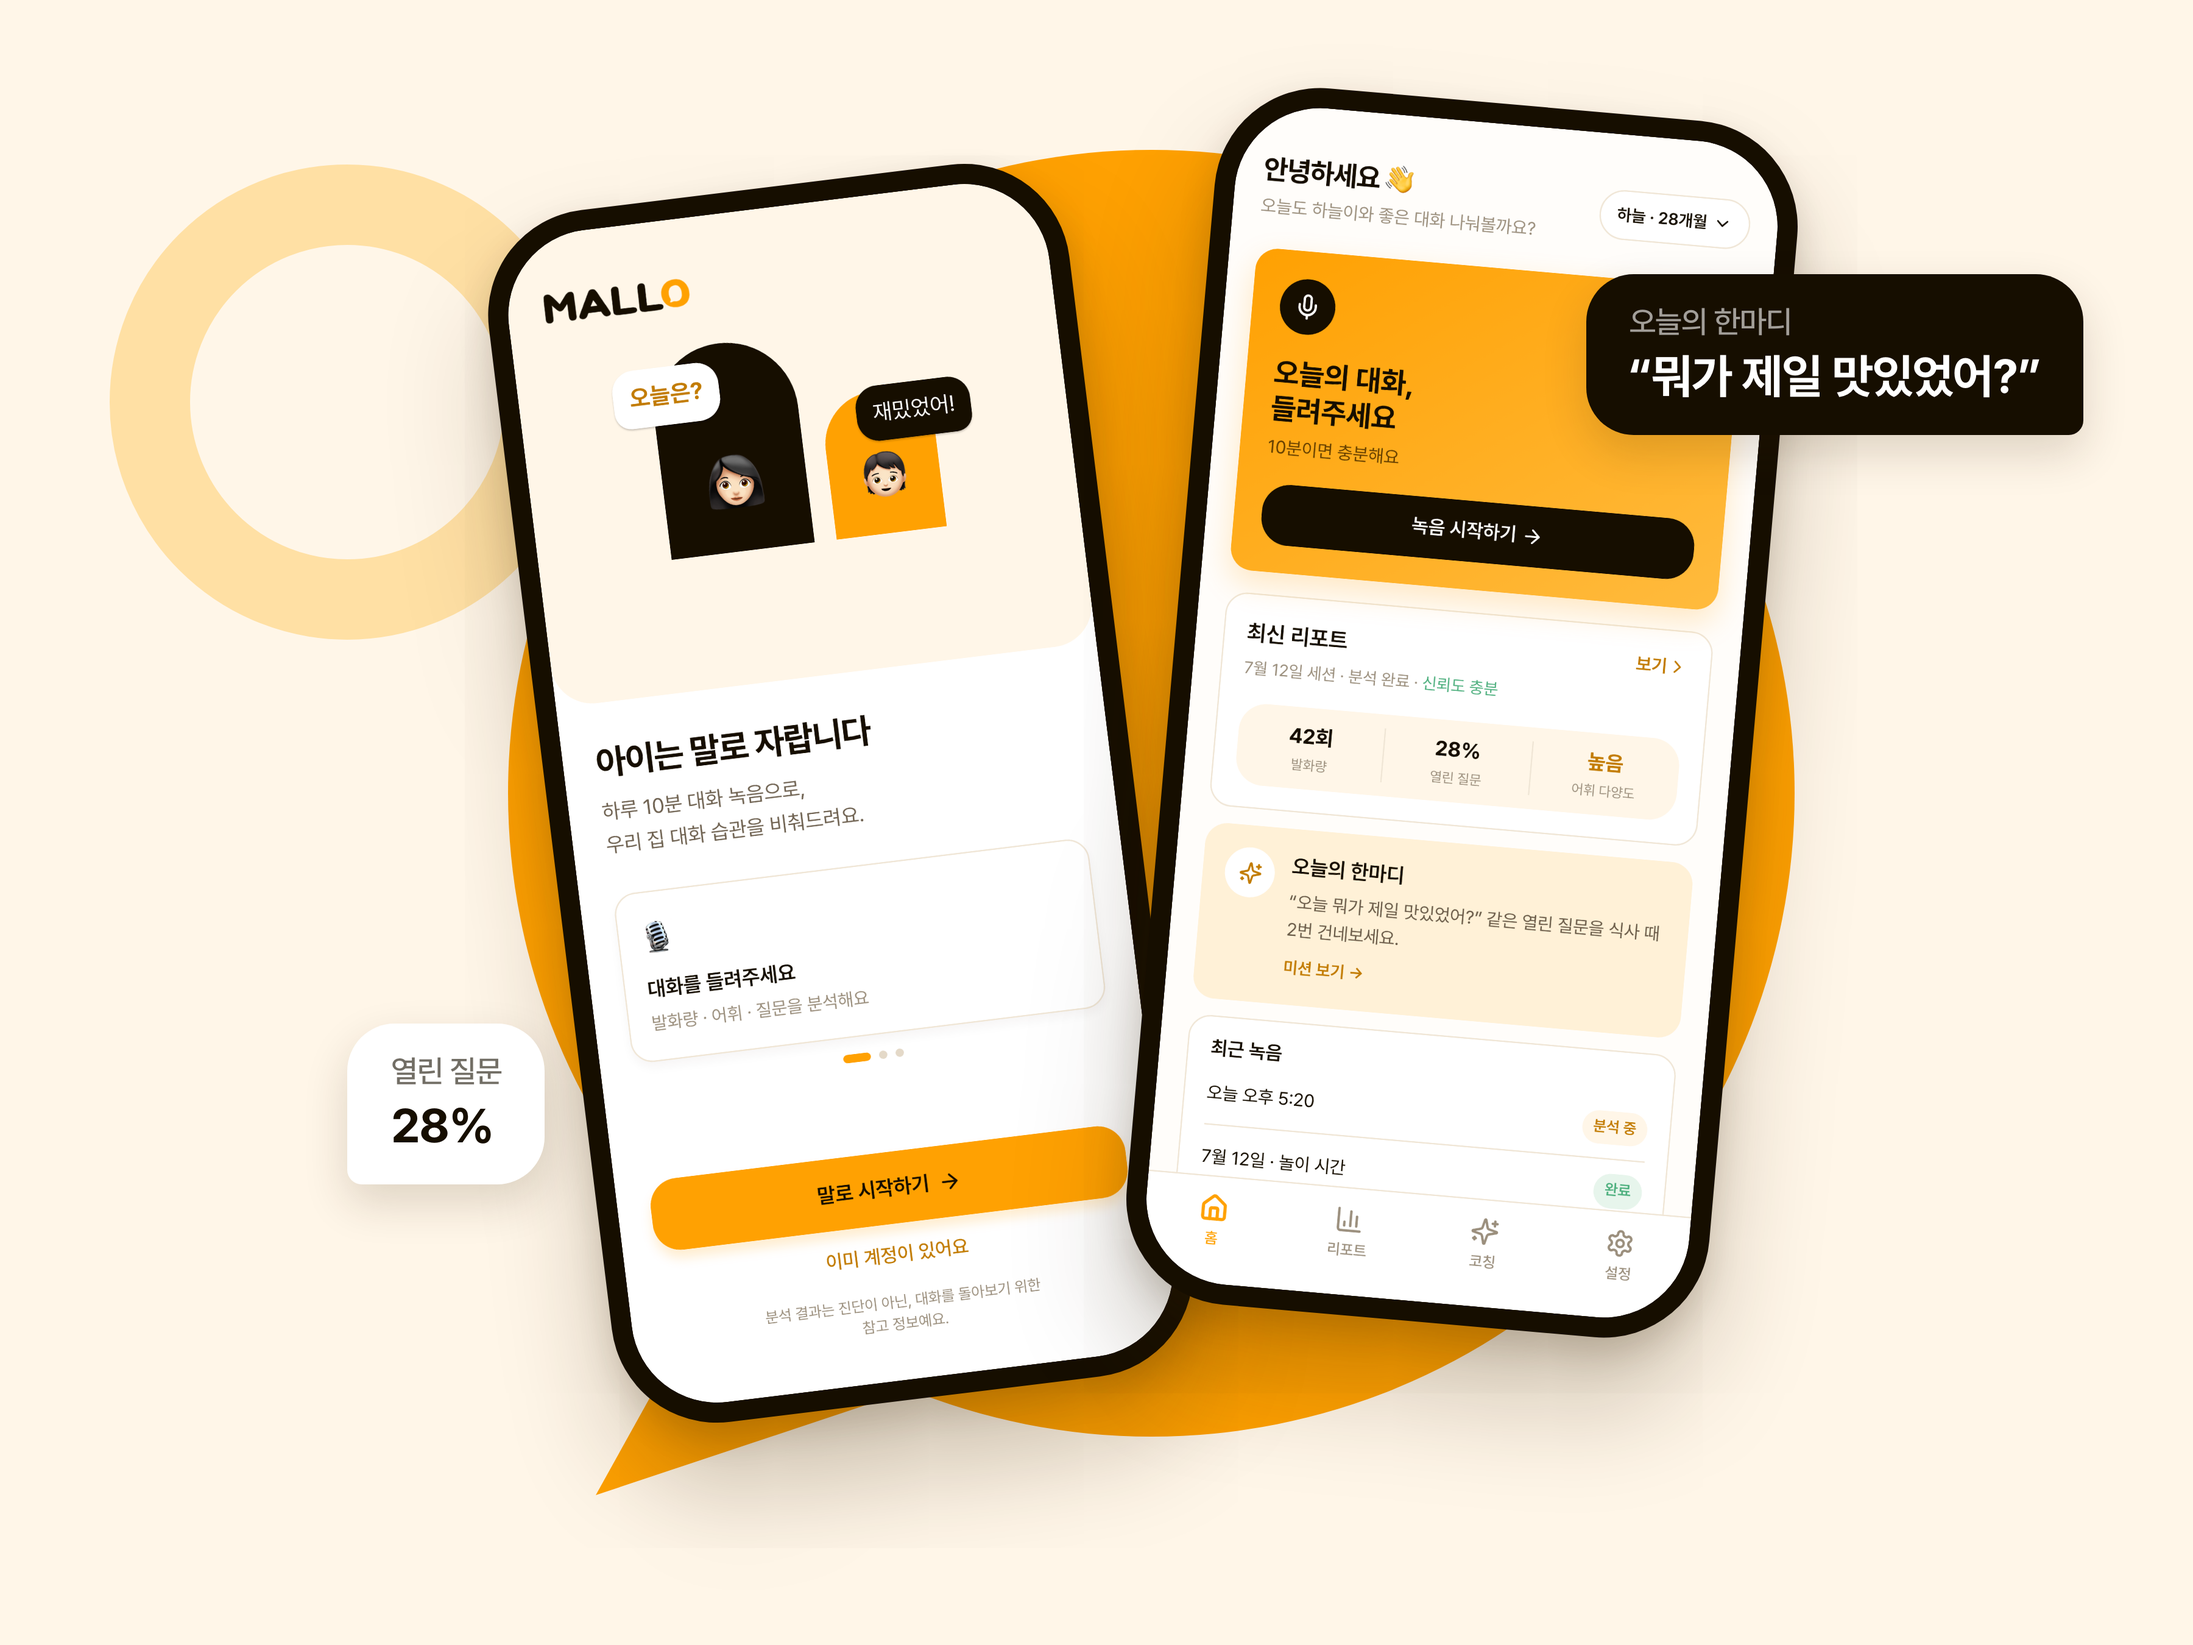
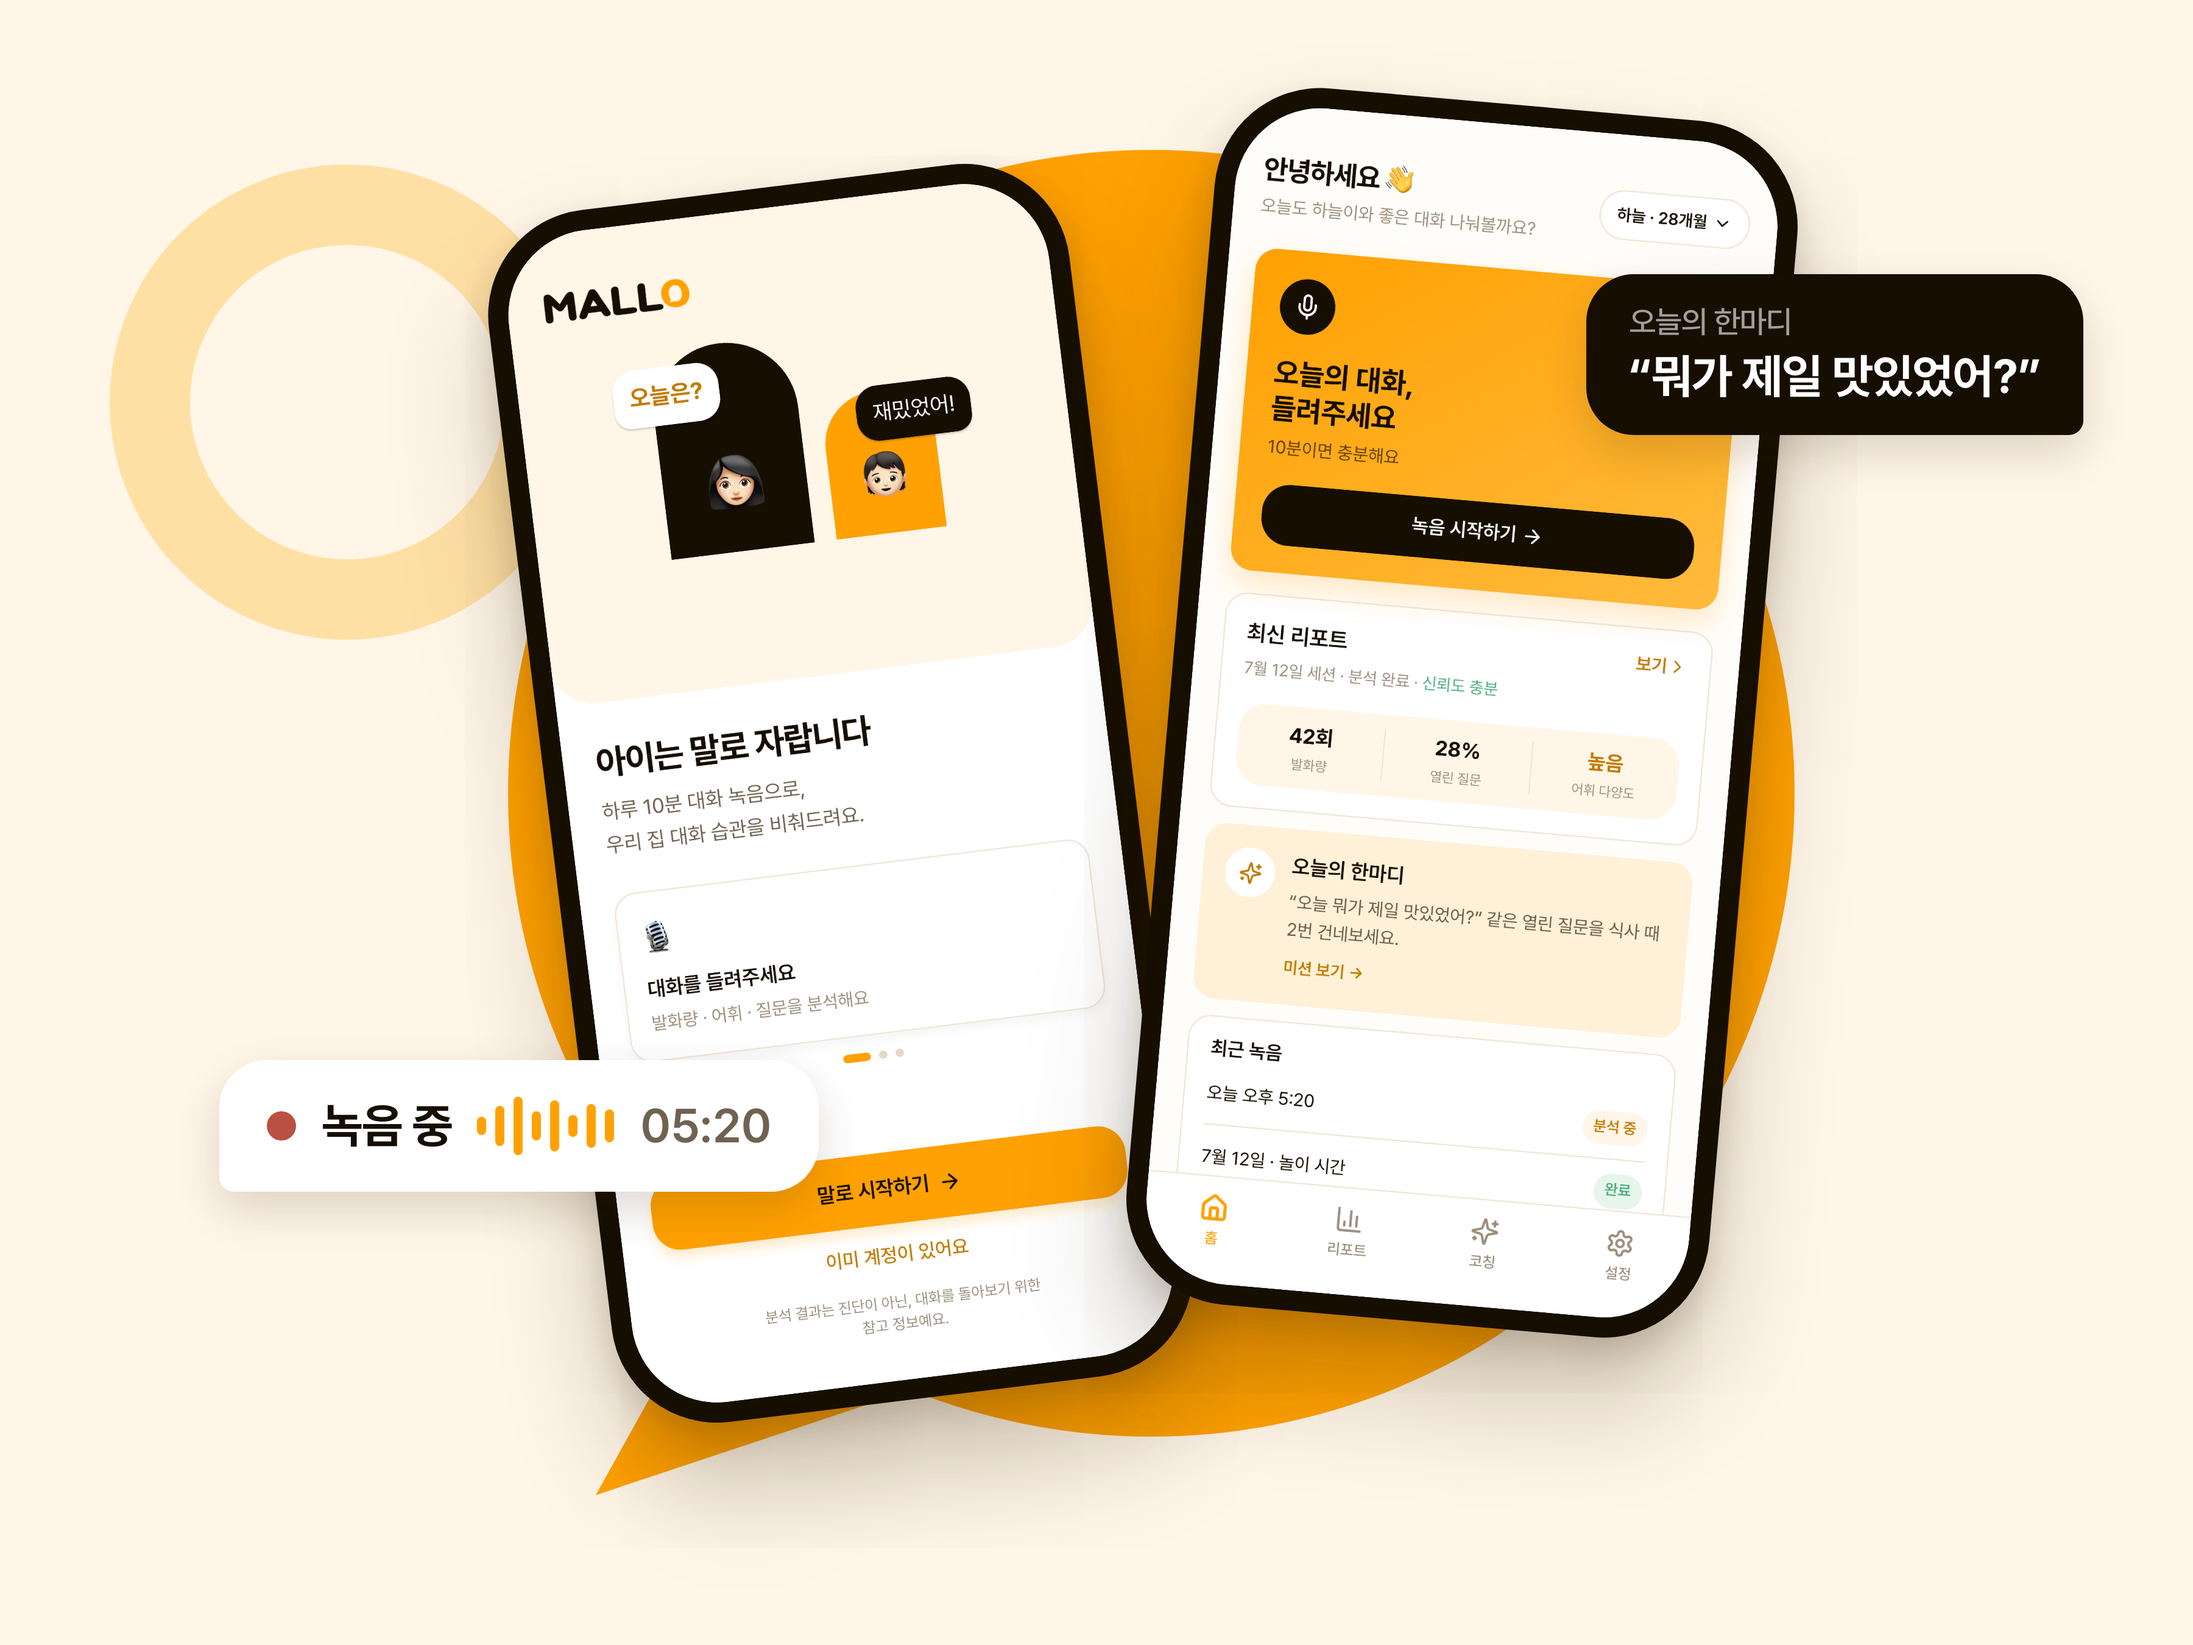
대표이미지의 열린 질문 칩을 녹음 중 칩으로 교체
포스터만 보는 사람은 28%가 좋은지 나쁜지 해석할 수 없어서,
녹음(입력) → 오늘의 한마디(코칭)로 서비스 흐름이 한눈에 보이게 바꾼다.

Changed region(s): [[0.1244, 0.6222, 0.3733, 0.7467]]

diff --git a/docs/poster/key-visual.html b/docs/poster/key-visual.html
@@ -20,6 +20,8 @@
         --color-primary: #ffa102;
         --color-primary-soft: #ffe0a4;
         --color-text-primary: #160e00;
+        --color-text-muted: #6f6251;
+        --color-danger: #b95042;
       }
       * { box-sizing: border-box; margin: 0; padding: 0; }
       html, body { width: 1200px; height: 900px; }
@@ -85,6 +87,11 @@
       }
       .chip--light { background: #fff; border-bottom-left-radius: 8px; }
       .chip--dark { background: var(--color-surface-dark); color: #fff; border-bottom-right-radius: 8px; }
+      .chip--rec { display: flex; align-items: center; gap: 14px; padding: 20px 26px; }
+      .rec-dot { width: 16px; height: 16px; border-radius: 50%; background: var(--color-danger); }
+      .wave { display: flex; align-items: center; gap: 5px; height: 32px; }
+      .wave i { width: 5px; border-radius: 3px; background: var(--color-primary); }
+      .rec-time { font-weight: 600; color: var(--color-text-muted); font-variant-numeric: tabular-nums; }
       .chip small { display: block; font-size: 17px; font-weight: 500; opacity: 0.6; margin-bottom: 4px; }
     </style>
   </head>
@@ -98,7 +105,14 @@
     <div class="phone phone--back"><img src="assets/screen-onboarding.png" alt="" /></div>
     <div class="phone phone--front"><img src="assets/screen-home.png" alt="" /></div>
 
-    <div class="chip chip--light" style="left: 190px; top: 560px"><small>열린 질문</small>28%</div>
+    <div class="chip chip--light chip--rec" style="left: 120px; top: 580px">
+      <i class="rec-dot"></i>녹음 중
+      <span class="wave" aria-hidden="true">
+        <i style="height: 10px"></i><i style="height: 22px"></i><i style="height: 32px"></i><i style="height: 16px"></i>
+        <i style="height: 28px"></i><i style="height: 12px"></i><i style="height: 24px"></i><i style="height: 18px"></i>
+      </span>
+      <span class="rec-time">05:20</span>
+    </div>
     <div class="chip chip--dark" style="right: 60px; top: 150px"><small>오늘의 한마디</small>“뭐가 제일 맛있었어?”</div>
   </body>
 </html>
